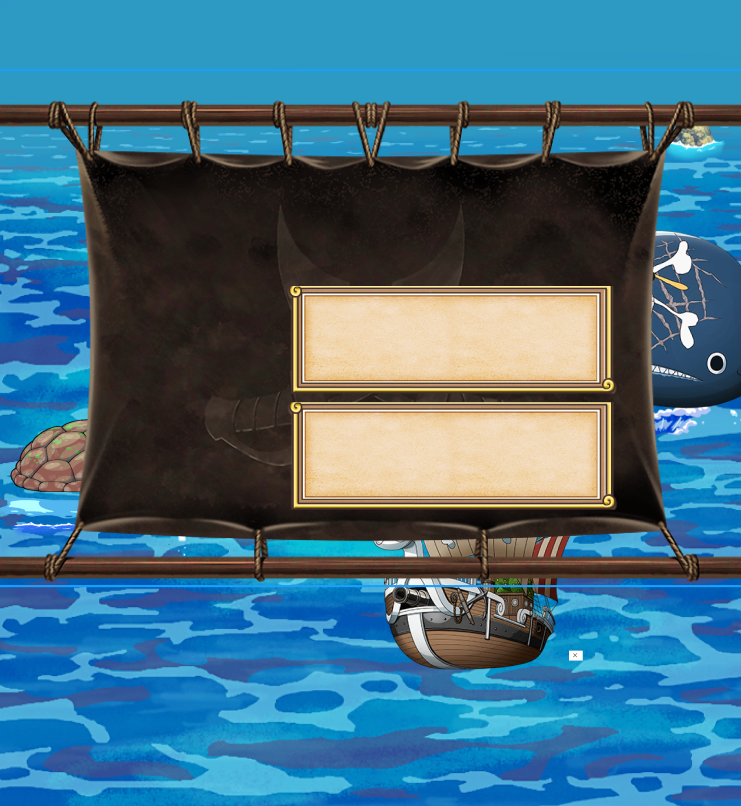
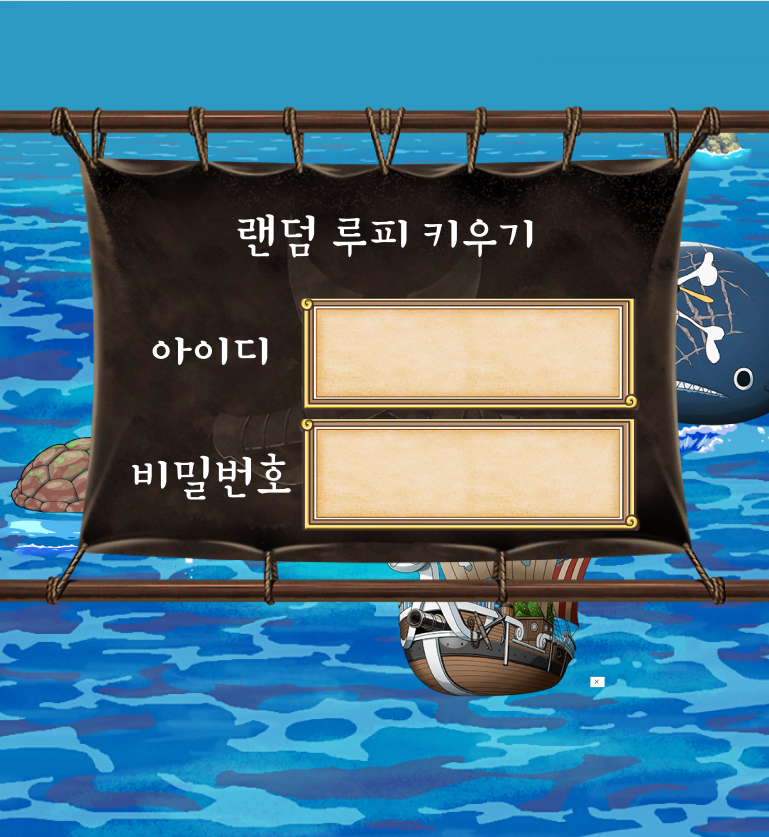
김은호02

diff --git a/src/com/npng/onepiece/user/view/LoginPageView.java b/src/com/npng/onepiece/user/view/LoginPageView.java
@@ -1,0 +1,81 @@
+package com.npng.onepiece.user.view;
+
+import java.awt.BorderLayout;
+import java.awt.Font;
+import java.awt.Image;
+import java.awt.event.ActionEvent;
+import java.awt.event.ActionListener;
+
+import javax.swing.ImageIcon;
+import javax.swing.JButton;
+import javax.swing.JLabel;
+import javax.swing.JPanel;
+import javax.swing.JTextField;
+
+import com.npng.onepiece.common.ViewUtil;
+
+public class LoginPageView extends JPanel {
+
+	private LoginView loginView;
+	private LoginPageView loginPageView;
+	
+	public LoginPageView(LoginView loginView) {
+		
+		this.loginView = loginView;
+		this.loginPageView = this;
+		
+		this.setSize(1200, 800);
+		
+		Image login = new ImageIcon("image/login/login.PNG").getImage().getScaledInstance(1200, 800, 0);
+		JLabel label = new JLabel(new ImageIcon(login));
+		
+		Font font1 = new Font("",0,35);
+		JTextField tf1 = new JTextField();
+		tf1.setLocation(495, 295);
+		tf1.setSize(473, 83);
+		tf1.setFont(font1);
+		
+		Font font3 = new Font("",0,35);
+		JTextField tf2 = new JTextField();
+		tf2.setLocation(495, 410);
+		tf2.setSize(473, 83);
+		tf2.setFont(font3);
+		
+		Font font4 = new Font("",0,25);
+		JButton btn1 = new JButton("로그인");
+		btn1.setLocation(150, 600);
+		btn1.setSize(200, 100);
+		btn1.setFont(font4);
+		Font font5= new Font("",0,25);
+		JButton btn2 = new JButton("회원가입");
+		btn2.setLocation(500, 600);
+		btn2.setSize(200, 100);
+		btn2.setFont(font5);
+		btn2.addActionListener(new ActionListener() {
+			
+			@Override
+			public void actionPerformed(ActionEvent e) {
+				ViewUtil.changePanel(loginView, loginPageView, new JoinPageView(loginView));
+			}
+		});
+		
+		Font font6 = new Font("",0,25);
+		JButton btn3 = new JButton("비밀번호 찾기");
+		btn3.setLocation(850, 600);
+		btn3.setSize(200, 100);
+		btn3.setFont(font6);
+		
+		JButton btn4 = new JButton(new ImageIcon("image/login/setting.PNG"));
+		btn4.setLocation(1145, 0);
+		btn4.setSize(50, 50);
+		
+		label.add(tf1);
+		label.add(tf2);
+		label.add(btn1);
+		label.add(btn2);
+		label.add(btn3);
+		label.add(btn4);
+		this.add(label, BorderLayout.CENTER);
+		loginView.add(this);
+	}
+}

diff --git a/src/com/npng/onepiece/user/view/JoinPageView.java b/src/com/npng/onepiece/user/view/JoinPageView.java
@@ -1,0 +1,77 @@
+package com.npng.onepiece.user.view;
+
+import java.awt.BorderLayout;
+import java.awt.Color;
+import java.awt.Font;
+import java.awt.Image;
+import java.awt.event.ActionEvent;
+import java.awt.event.ActionListener;
+
+import javax.swing.ImageIcon;
+import javax.swing.JButton;
+import javax.swing.JLabel;
+import javax.swing.JPanel;
+import javax.swing.JTextField;
+
+import com.npng.onepiece.common.ViewUtil;
+
+public class JoinPageView extends JPanel {
+
+	private JoinPageView joinPageView;
+	
+	public JoinPageView(LoginView loginView) {
+		this.setSize(1200, 800);
+		
+		Image join = new ImageIcon("image/login/join.PNG").getImage().getScaledInstance(1200, 800, 0);
+		JLabel label = new JLabel(new ImageIcon(join));
+		
+		Font font1 = new Font("",0,35);
+		JTextField tf1 = new JTextField();
+		tf1.setLocation(599, 163);
+		tf1.setSize(473, 83);
+		tf1.setFont(font1);
+		
+		Font font2 = new Font("",0,35);
+		JTextField tf2 = new JTextField();
+		tf2.setLocation(599, 278);
+		tf2.setSize(473, 83);
+		tf2.setFont(font2);
+		
+		Font font3 = new Font("",0,35);
+		JTextField tf3 = new JTextField();
+		tf3.setLocation(599, 393);
+		tf3.setSize(473, 83);
+		tf3.setFont(font3);
+		
+		Font font4 = new Font("",0,25);
+		JButton btn1 = new JButton("뒤로가기");
+		btn1.setLocation(150, 600);
+		btn1.setSize(200, 100);
+		btn1.setFont(font4);
+		btn1.addActionListener(new ActionListener() {
+			
+			@Override
+			public void actionPerformed(ActionEvent e) {
+				ViewUtil.changePanel(loginView, new JoinPageView(loginView), new LoginPageView(loginView));
+			}
+		});
+		Font font5= new Font("",0,25);
+		JButton btn2 = new JButton("가입하기");
+		btn2.setLocation(850, 600);
+		btn2.setSize(200, 100);
+		btn2.setFont(font5);
+		
+		JButton btn4 = new JButton(new ImageIcon("image/login/setting.PNG"));
+		btn4.setLocation(1145, 0);
+		btn4.setSize(50, 50);
+		
+		label.add(tf1);
+		label.add(tf2);
+		label.add(tf3);
+		label.add(btn1);
+		label.add(btn2);
+		label.add(btn4);
+		this.add(label, BorderLayout.CENTER);
+		
+	}
+}

diff --git a/src/com/npng/onepiece/user/view/LoginView.java b/src/com/npng/onepiece/user/view/LoginView.java
@@ -3,42 +3,31 @@ package com.npng.onepiece.user.view;
 import java.awt.BorderLayout;
 import java.awt.Font;
 import java.awt.Image;
+import java.awt.event.MouseAdapter;
+import java.awt.event.MouseEvent;
 
 import javax.swing.ImageIcon;
+import javax.swing.JButton;
 import javax.swing.JFrame;
 import javax.swing.JLabel;
 import javax.swing.JPanel;
 import javax.swing.JTextField;
 
+import com.npng.onepiece.common.ViewUtil;
+
 public class LoginView extends JFrame {
 
 	public LoginView() {
+		
 		super("Random Lupi RPG");
 		this.setBounds(300, 150, 1200, 800);
 		
-		JPanel panel = new JPanel();
-		panel.setSize(1200, 800);
-//		panel.setLayout(null);
-		
-		Image login = new ImageIcon("image/login.PNG").getImage().getScaledInstance(1200, 800, 0);
-		JLabel label = new JLabel(new ImageIcon(login));
-		
-		JLabel lb = new JLabel("아이디 : ");
-		lb.setLocation(360, 285);
-		lb.setSize(250, 100);
-		Font font = new Font("아이디 : ", Font.PLAIN, 25);
-		lb.setFont(font);
-		
-		JTextField tf = new JTextField();
-		tf.setLocation(495, 295);
-		tf.setSize(473, 80);
-		
-		label.add(lb);
-		label.add(tf);
-		panel.add(label, BorderLayout.CENTER);
-		this.add(panel);
+		new LoginPageView(this);
 		
 		this.setVisible(true);
 		this.setDefaultCloseOperation(JFrame.EXIT_ON_CLOSE);
 	}
+	
+	
 }
+

diff --git a/src/com/npng/onepiece/user/model/dto/UserDTO.java b/src/com/npng/onepiece/user/model/dto/UserDTO.java
@@ -1,0 +1,48 @@
+package com.npng.onepiece.user.model.dto;
+
+public class UserDTO implements java.io.Serializable {
+
+	private String userId;
+	private String userPwd;
+	private String userName;
+	
+	public UserDTO() {}
+
+	public UserDTO(String userId, String userPwd, String userName) {
+		super();
+		this.userId = userId;
+		this.userPwd = userPwd;
+		this.userName = userName;
+	}
+
+	public String getUserId() {
+		return userId;
+	}
+
+	public String getUserPwd() {
+		return userPwd;
+	}
+
+	public String getUserName() {
+		return userName;
+	}
+
+	public void setUserId(String userId) {
+		this.userId = userId;
+	}
+
+	public void setUserPwd(String userPwd) {
+		this.userPwd = userPwd;
+	}
+
+	public void setUserName(String userName) {
+		this.userName = userName;
+	}
+
+	@Override
+	public String toString() {
+		return "UserDTO [userId=" + userId + ", userPwd=" + userPwd + ", userName=" + userName + "]";
+	}
+	
+	
+}

diff --git a/src/com/npng/onepiece/common/ViewUtil.java b/src/com/npng/onepiece/common/ViewUtil.java
@@ -2,12 +2,14 @@ package com.npng.onepiece.common;
 
 import javax.swing.JPanel;
 
+import com.npng.onepiece.user.view.LoginView;
+
 public class ViewUtil {
 
-//	public static void changePanel(MainFrame mf, JPanel op, JPanel np) {
-//        mf.remove(op);
-//        mf.add(np);
-//        mf.repaint();
-//        mf.revalidate();
-//    }
+	public static void changePanel(LoginView mf, JPanel op, JPanel np) {
+        mf.remove(op);
+        mf.add(np);
+        mf.repaint();
+        mf.revalidate();
+    }
 }

diff --git a/src/com/npng/onepiece/run/Application.java b/src/com/npng/onepiece/run/Application.java
@@ -1,10 +1,12 @@
 package com.npng.onepiece.run;
 
+import com.npng.onepiece.user.view.LoginView;
+
 public class Application {
 
 	public static void main(String[] args) {
 		
-
+		new LoginView();
 		
 	}
 }
